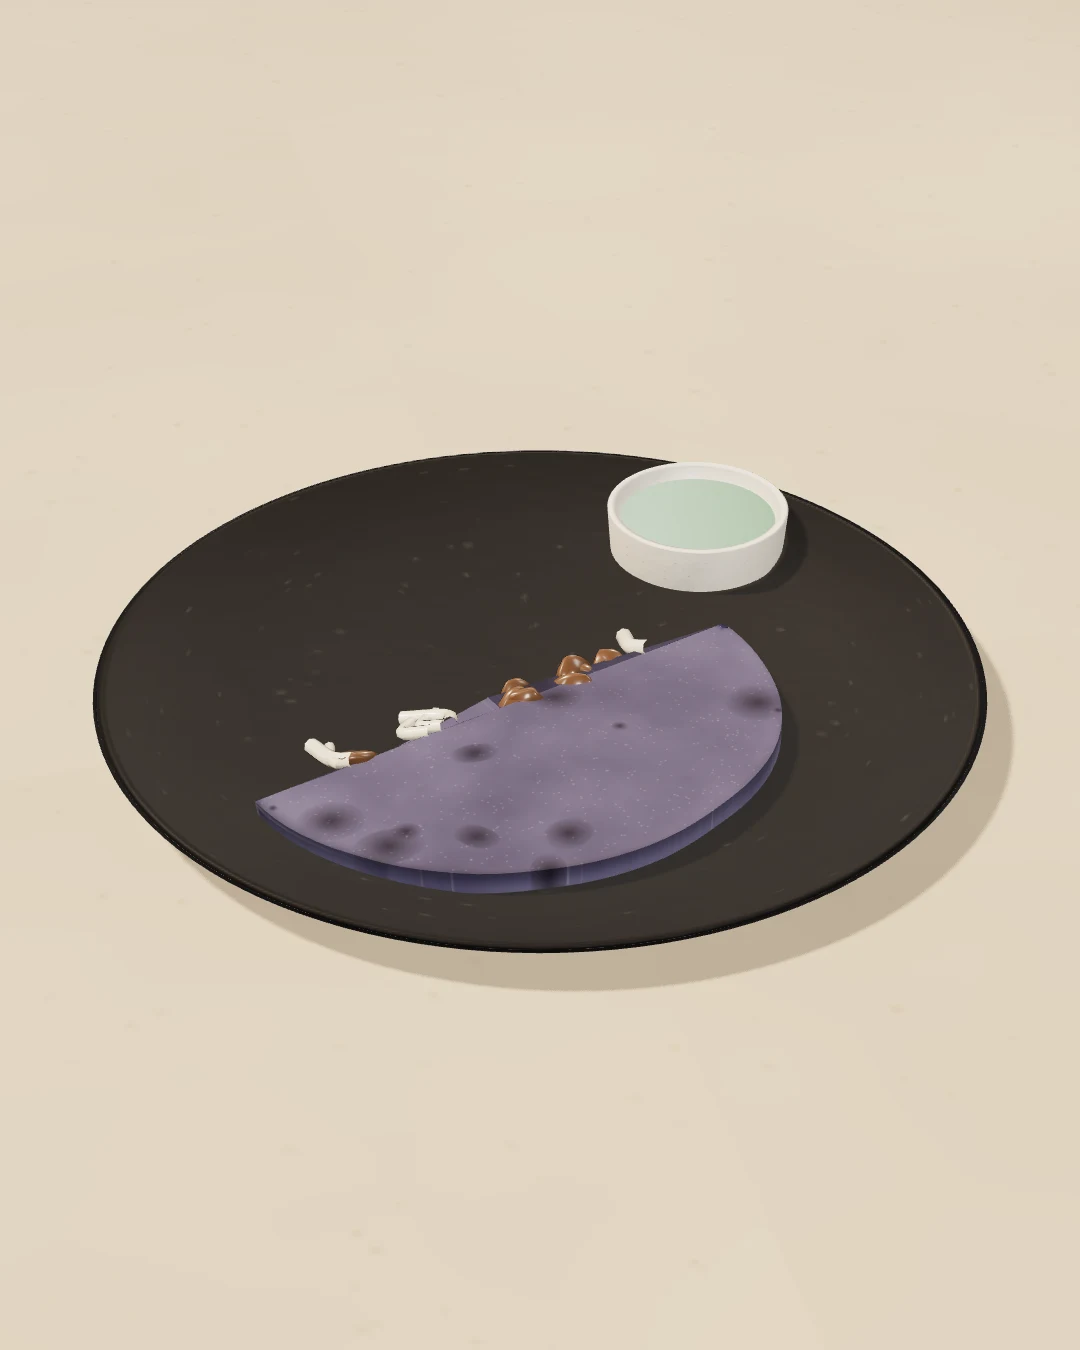
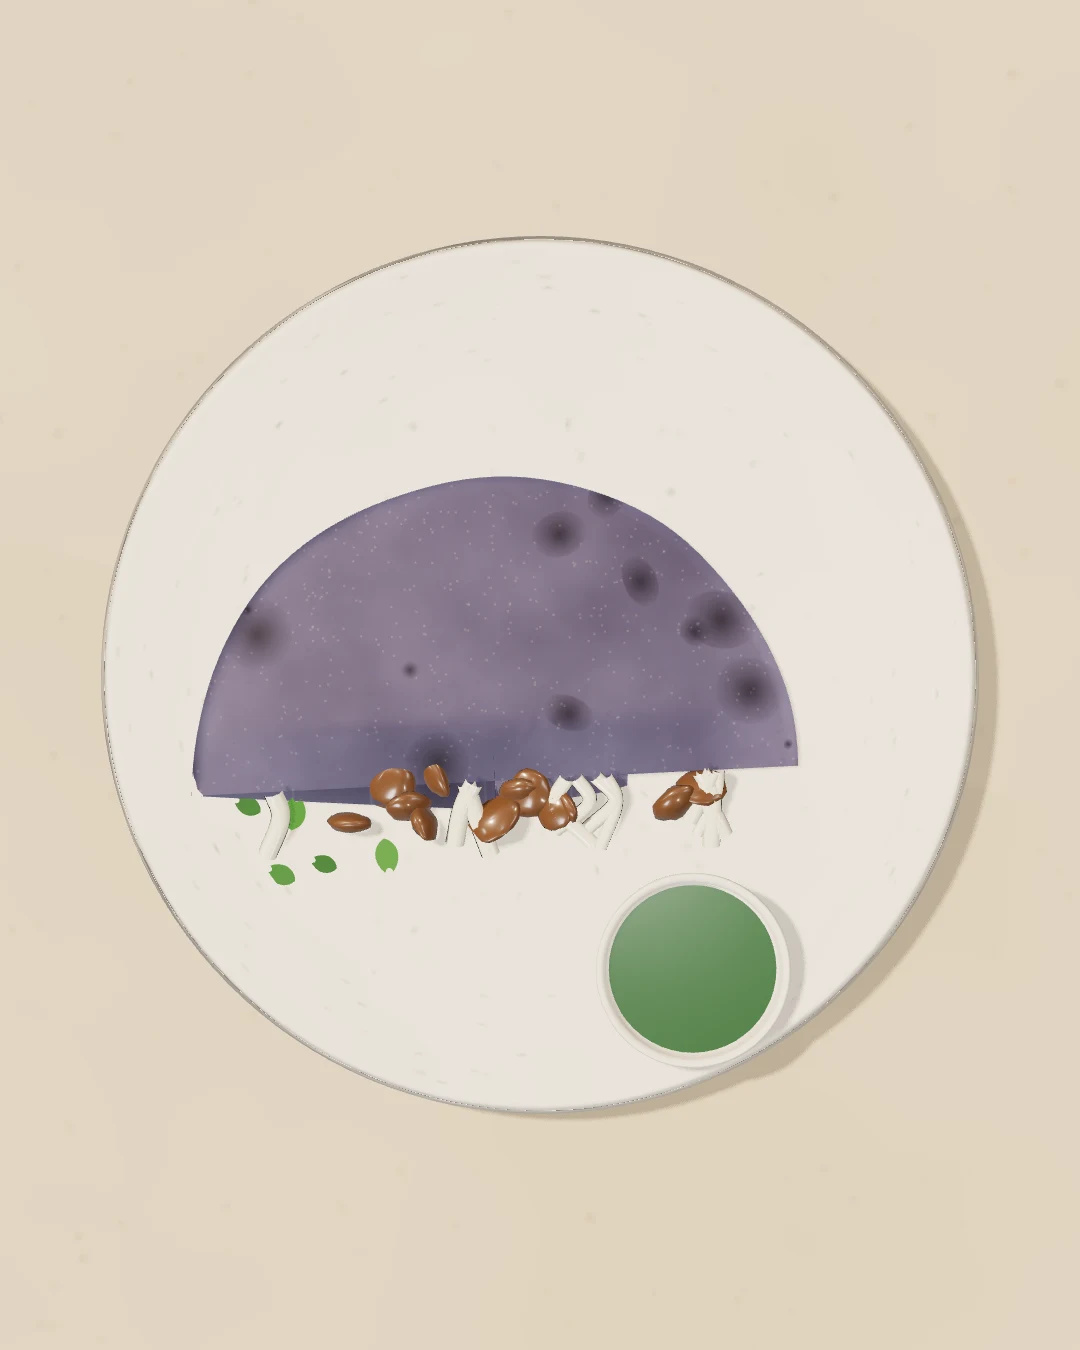
Render de quesadilla de hongos: vista cenital centrada con queso y hongos al frente
Claude-Session: https://claude.ai/code/session_013ysZS3sHMV4L5oBot5RWvP

diff --git a/src/three/recipes.ts b/src/three/recipes.ts
@@ -421,37 +421,44 @@ const recipes: Record<string, Recipe> = {
   'quesadilla-de-hongos': () => {
     const r = rng(107);
     const g = new THREE.Group();
-    const p = plate('flat', 1.0, '#1E1B19');
+    const p = plate('flat', 1.0, '#EFE7DA');
     g.add(p.mesh);
     // media luna de maíz azul
     const q = new THREE.Group();
     const half = sheet({
       radius: (phi) => (phi <= Math.PI ? 0.62 * (1 + fbm(Math.cos(phi), Math.sin(phi), 3, 2) * 0.04) : 0.0001 + 0.62 * Math.abs(Math.sin(phi)) * 0),
-      thickness: 0.05,
-      rings: 18,
-      segs: 96,
-      map: (x, z) => V(x, 0.05 + Math.sin(Math.min(Math.PI, Math.max(0, Math.atan2(z, x)))) * 0.03 + fbm(x * 3, z * 3, 5, 2) * 0.012, z),
+      thickness: 0.06,
+      rings: 22,
+      segs: 120,
+      // abombada: más alta al centro de la media luna, baja hacia el borde curvo y el recto
+      map: (x, z) => {
+        const d = Math.min(1, Math.hypot(x, z) / 0.62);
+        const edge = Math.min(1, Math.max(0, z) / 0.12);
+        return V(x, 0.03 + 0.14 * (1 - d * d) * edge + fbm(x * 3, z * 3, 5, 2) * 0.014, z);
+      },
     });
     q.add(new THREE.Mesh(half, std('#ffffff', 0.72, { map: tortillaTexture('blue'), bumpMap: bumpNoise('azul', 30), bumpScale: 1.5, side: THREE.DoubleSide })));
     // hilos de queso Oaxaca asomando por el borde recto
-    for (let i = 0; i < 6; i++) {
-      const x0 = range(r, -0.45, 0.45);
+    for (let i = 0; i < 11; i++) {
+      const x0 = range(r, -0.5, 0.5);
       const curve = new THREE.CatmullRomCurve3([V(x0, 0.06, 0.0), V(x0 + range(r, -0.04, 0.04), 0.04, -0.05), V(x0 + range(r, -0.06, 0.06), 0.012, -0.1 - r() * 0.06)]);
       q.add(new THREE.Mesh(new THREE.TubeGeometry(curve, 16, 0.012 + r() * 0.008, 8), glossy('#F5ECD6', 0.3)));
     }
-    q.add(instanced(blob(0.05, 0.02, 0.04, 0.3, 19, 2), glossy('#7A5230', 0.35), scatter(r, 8, 0.4, () => 0.03, { sx: 1, sz: 0.1, cz: -0.02 })));
-    q.position.set(-0.12, p.top, 0.12);
-    q.rotation.y = 0.35;
+    q.add(instanced(blob(0.05, 0.02, 0.04, 0.3, 19, 2), glossy('#7A5230', 0.35), scatter(r, 12, 0.46, () => 0.035, { sx: 1, sz: 0.12, cz: -0.03 })));
+    q.position.set(-0.04, p.top, 0.26);
+    q.scale.setScalar(1.12);
+    q.rotation.y = Math.PI + 0.3; // borde recto (queso y hongos) hacia la cámara
     g.add(q);
     // salsa verde en ramequín
     const rk = plate('ramekin', 0.22, '#EFE7DA');
-    rk.mesh.position.set(0.52, p.top, -0.5);
+    rk.mesh.position.set(0.5, p.top, 0.56);
     g.add(rk.mesh);
-    const salsa = new THREE.Mesh(new THREE.CircleGeometry(0.19, 48), glossy('#3F7A2A', 0.2));
+    const salsa = new THREE.Mesh(new THREE.CircleGeometry(0.19, 48), glossy('#2C5F1F', 0.18));
     salsa.rotation.x = -Math.PI / 2;
-    salsa.position.set(0.52, p.top + 0.09, -0.5);
+    salsa.position.set(0.5, p.top + 0.09, 0.56);
+    g.add(herbs(r, 7, 0.16, () => p.top + 0.02, -0.4, 0.5, [0.06, 0.09]));
     g.add(salsa);
-    return { root: shadowed(g), view: { type: 'tq', width: 2.1, elevation: 34, azimuth: -14, targetY: 0.08 } };
+    return { root: shadowed(g), view: { type: 'top', width: 2.15, rotate: -0.25 } };
   },
 
   'sopes-de-birria': () => {
